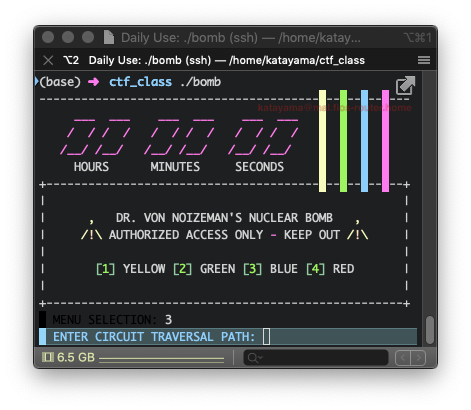
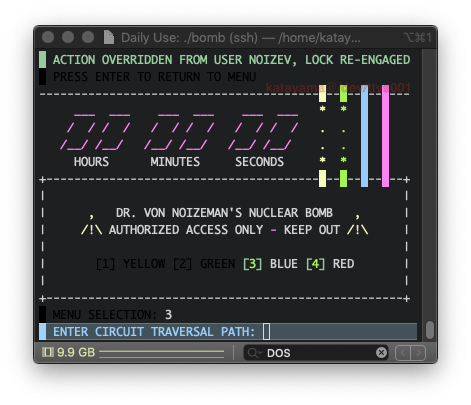
update README.md

diff --git a/reverse/nuclear_bomb_blue/README.md b/reverse/nuclear_bomb_blue/README.md
@@ -1,28 +1,36 @@
 # Nuclear_Bomb_Yellow
 
 You must defuse Dr. Von Noizeman's nuclear bomb!
-<p>The flag for this challenge is the answer for the <font color="yellow"><b>yellow</b></font> wire, wrapped in the <b>UDCTF{}</b> flag format.</p>
+<p>The flag for this challenge is the answer for the <font color="blue"><b>blue</b></font> wire, wrapped in the <b>UDCTF{}</b> flag format.</p>
 
-FILE: [bomb](https://github.com/kkatayama/ctf_class/blob/master/crypto/nuclear_bomb_yellow/bomb?raw=true)
+Please see the Nuclear Bomb: Yellow challenge for the bomb executable.
+
+FILE: [bomb](https://github.com/kkatayama/ctf_class/blob/master/crypto/nuclear_bomb_blue/bomb?raw=true)
 
 ## Initial Analysis 
-For this challenge, we were given a binary file [bomb](https://github.com/kkatayama/ctf_class/blob/master/crypto/nuclear_bomb_yellow/bomb?raw=true).
+For this challenge, we were given a binary file [bomb](https://github.com/kkatayama/ctf_class/blob/master/crypto/nuclear_bomb_blue/bomb?raw=true).
 
-When we run the binary, we are greeted with a menu selection: `[1] YELLOW [2] GREEN [3] BLUE [4] RED`.
-Selecting `[1]` prompts us to `ENTER UNLOCK PASSWORD 1:`
+This time we need to enter a correct sequence that satisfies a `Circuit Traversal Path`
 
-![intro.png](https://raw.githubusercontent.com/kkatayama/ctf_class/master/crypto/nuclear_bomb_yellow/intro.png)
-
+![intro.png](https://raw.githubusercontent.com/kkatayama/ctf_class/master/crypto/nuclear_bomb_blue/intro.png)
 
 ## Tools 
 * radare2 (bash)
 * cutter (osx GUI for radare2)
 
 ## Computing the Answer 
+### Debugging
 
+![verify](https://raw.githubusercontent.com/kkatayama/ctf_class/master/reverse/nuclear_bomb_blue/verify.png)
+
+After mapping this out by hand, I realized that there are a couple different paths you can take to produce a successful `Gate Array`.  As long as the variable holding `obj.solution` and what was copied 
+into `local_h` from earlier in the path, the `Gate Array` will succeed.
+
+### RESULTS
+![hack](https://raw.githubusercontent.com/kkatayama/ctf_class/master/reverse/nuclear_bomb_blue/hack.png)
 
 
 ## The Flag 
 ```ObjectScript
-UDCTF{youwillneverguessthis}
+UDCTF{LLRR}
 ```
